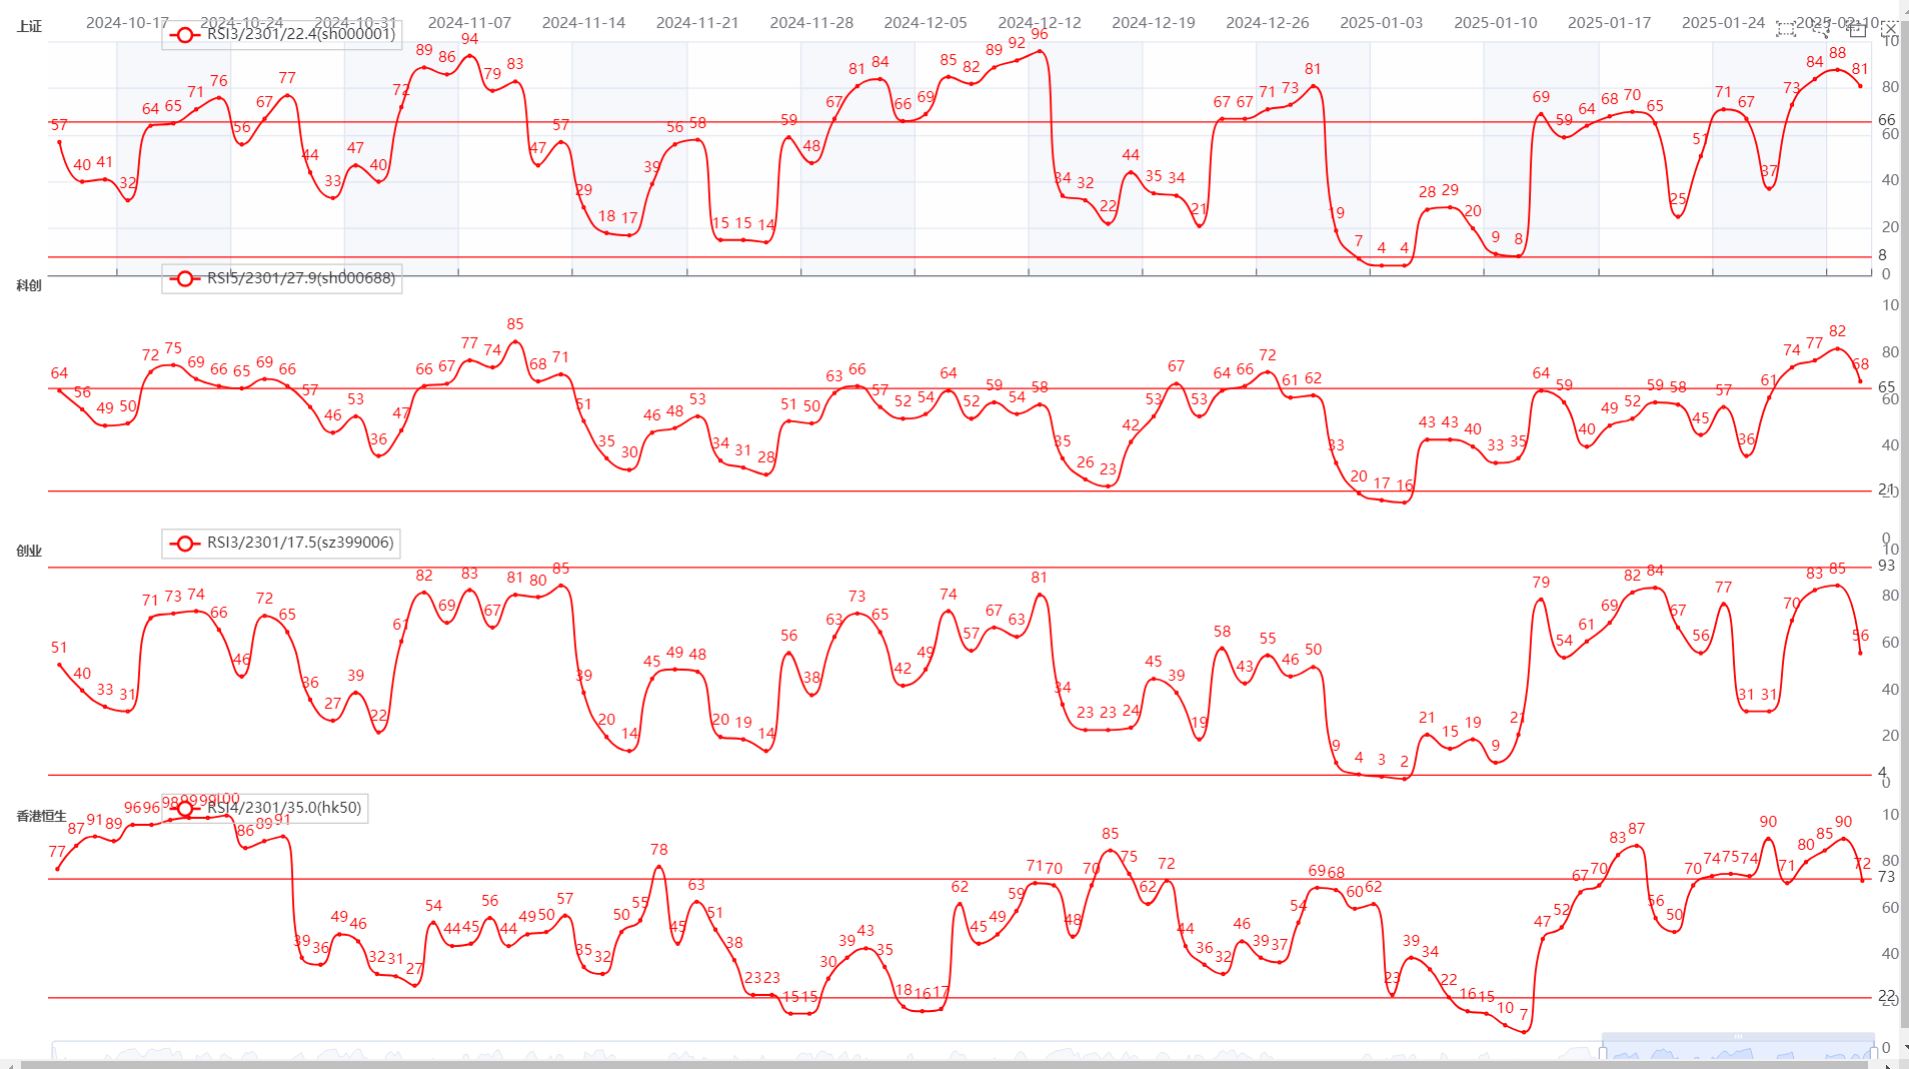
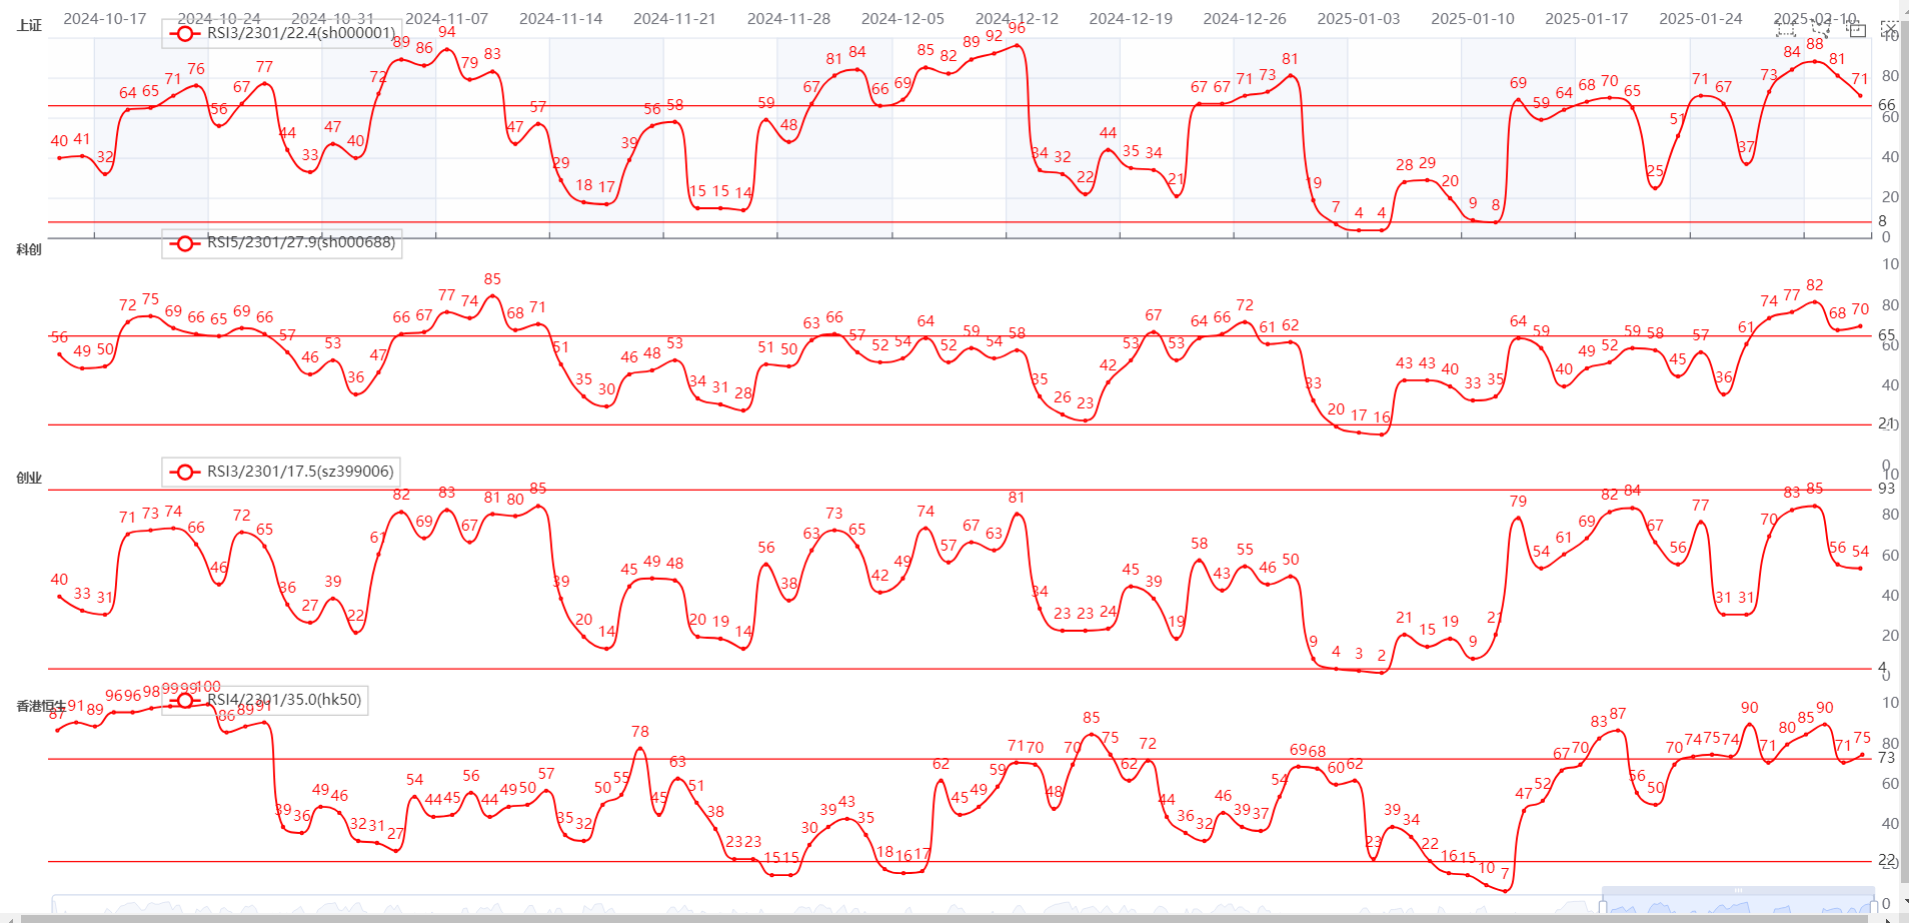
20250212

diff --git a/index_cn.html b/index_cn.html
@@ -13,11 +13,11 @@
     </style>
 </head>
 <body onresize="resizeFresh()"  >
-    <div id="ddffee07472843abb8b1c83b162ac13f" class="chart-container" style="width:100%; height:100%; "></div>
+    <div id="fe98166fdb444494ab143819a6046f02" class="chart-container" style="width:100%; height:100%; "></div>
     <script>
-        var chart_ddffee07472843abb8b1c83b162ac13f = echarts.init(
-            document.getElementById('ddffee07472843abb8b1c83b162ac13f'), 'white', {renderer: 'canvas'});
-        var option_ddffee07472843abb8b1c83b162ac13f = {
+        var chart_fe98166fdb444494ab143819a6046f02 = echarts.init(
+            document.getElementById('fe98166fdb444494ab143819a6046f02'), 'white', {renderer: 'canvas'});
+        var option_fe98166fdb444494ab143819a6046f02 = {
     "animation": true,
     "animationThreshold": 2000,
     "animationDuration": 1000,
@@ -2160,6 +2160,10 @@
                 [
                     "2025-02-11",
                     81.0
+                ],
+                [
+                    "2025-02-12",
+                    71.0
                 ]
             ],
             "hoverAnimation": false,
@@ -4336,6 +4340,10 @@
                 [
                     "2025-02-11",
                     68.0
+                ],
+                [
+                    "2025-02-12",
+                    70.0
                 ]
             ],
             "hoverAnimation": false,
@@ -6512,6 +6520,10 @@
                 [
                     "2025-02-11",
                     56.0
+                ],
+                [
+                    "2025-02-12",
+                    54.0
                 ]
             ],
             "hoverAnimation": false,
@@ -6582,76 +6594,72 @@
             "step": false,
             "data": [
                 [
-                    "2022-07-05",
-                    0.0
-                ],
-                [
                     "2022-07-06",
-                    0.0
+                    100.0
                 ],
                 [
                     "2022-07-07",
-                    7.0
+                    100.0
                 ],
                 [
                     "2022-07-08",
-                    17.0
+                    100.0
                 ],
                 [
                     "2022-07-11",
-                    8.0
+                    24.0
                 ],
                 [
                     "2022-07-12",
-                    6.0
+                    16.0
                 ],
                 [
                     "2022-07-13",
-                    6.0
+                    15.0
                 ],
                 [
                     "2022-07-14",
-                    5.0
+                    14.0
                 ],
                 [
                     "2022-07-15",
-                    3.0
+                    7.0
                 ],
                 [
                     "2022-07-18",
-                    44.0
+                    49.0
                 ],
                 [
                     "2022-07-19",
-                    37.0
+                    41.0
                 ],
                 [
                     "2022-07-20",
-                    50.0
+                    54.0
                 ],
                 [
                     "2022-07-21",
-                    36.0
+                    38.0
                 ],
                 [
                     "2022-07-22",
-                    39.0
+                    41.0
                 ],
                 [
                     "2022-07-25",
-                    36.0
+                    38.0
                 ],
                 [
                     "2022-07-26",
-                    61.0
+                    63.0
                 ],
                 [
                     "2022-07-27",
-                    45.0
+                    46.0
                 ],
                 [
                     "2022-07-28",
-                    42.0
+                    43.0
                 ],
                 [
                     "2022-07-29",
@@ -6659,7 +6667,7 @@
                 ],
                 [
                     "2022-08-01",
-                    23.0
+                    24.0
                 ],
                 [
                     "2022-08-02",
@@ -9143,7 +9151,11 @@
                 ],
                 [
                     "2025-02-11",
-                    72.0
+                    71.0
+                ],
+                [
+                    "2025-02-12",
+                    75.0
                 ]
             ],
             "hoverAnimation": false,
@@ -9894,7 +9906,8 @@
                 "2025-02-06",
                 "2025-02-07",
                 "2025-02-10",
-                "2025-02-11"
+                "2025-02-11",
+                "2025-02-12"
             ]
         },
         {
@@ -10444,7 +10457,8 @@
                 "2025-02-06",
                 "2025-02-07",
                 "2025-02-10",
-                "2025-02-11"
+                "2025-02-11",
+                "2025-02-12"
             ]
         },
         {
@@ -10994,7 +11008,8 @@
                 "2025-02-06",
                 "2025-02-07",
                 "2025-02-10",
-                "2025-02-11"
+                "2025-02-11",
+                "2025-02-12"
             ]
         },
         {
@@ -11018,7 +11033,6 @@
                 }
             },
             "data": [
-                "2022-07-05",
                 "2022-07-06",
                 "2022-07-07",
                 "2022-07-08",
@@ -11658,7 +11672,8 @@
                 "2025-02-06",
                 "2025-02-07",
                 "2025-02-10",
-                "2025-02-11"
+                "2025-02-11",
+                "2025-02-12"
             ]
         }
     ],
@@ -12010,9 +12025,9 @@
         }
     ]
 };
-        chart_ddffee07472843abb8b1c83b162ac13f.setOption(option_ddffee07472843abb8b1c83b162ac13f);
+        chart_fe98166fdb444494ab143819a6046f02.setOption(option_fe98166fdb444494ab143819a6046f02);
             window.addEventListener('resize', function(){
-                chart_ddffee07472843abb8b1c83b162ac13f.resize();
+                chart_fe98166fdb444494ab143819a6046f02.resize();
             })
     </script>
     
